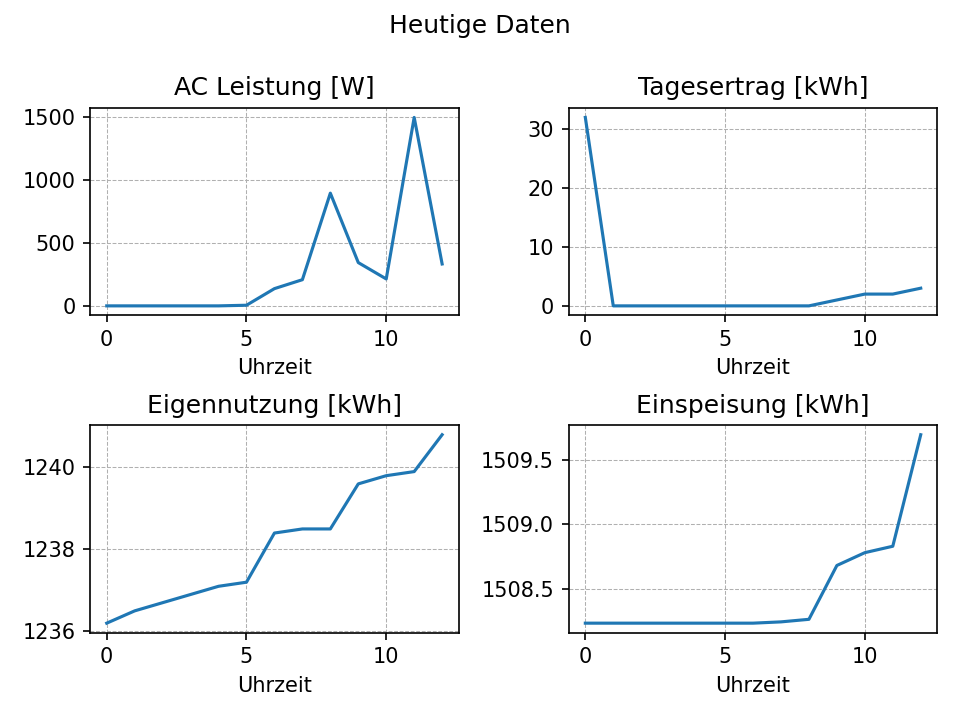
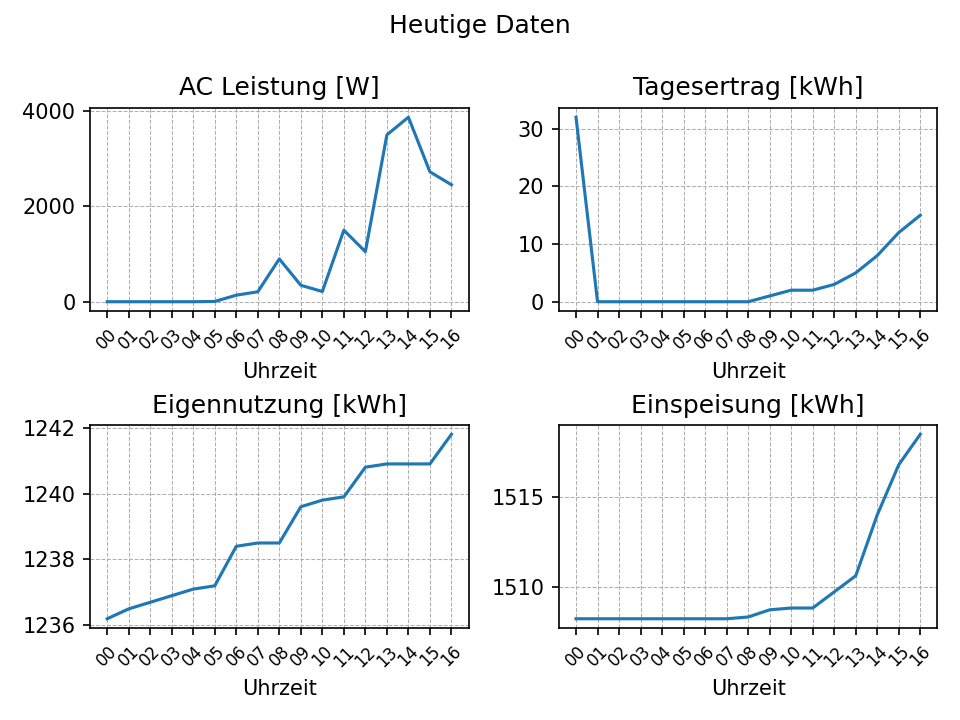
Stundenmarker hinzugefügt

diff --git a/plots/dailyplot.py b/plots/dailyplot.py
@@ -3,10 +3,11 @@ import sqlite3, pandas, matplotlib.pyplot as plt
 con = sqlite3.connect("/home/kiwi/project/solar_data.db")
 
 sql =   """select
+                substr(time(time_of_request, 'localtime'), 1, 2) as hour,
                 round(avg(acpower)) as ac,
                 round(yieldtoday) as yieldtoday,
                 round(consumeenergy, 1) as consume,
-                feedinenergy 
+                round(feedinenergy, 1) as feedin
             from
                 DOWNLOADED_SOLAX_INFO
             where
@@ -14,39 +15,42 @@ sql =   """select
             group by
                 substr(time(time_of_request, 'localtime'), 1, 2);
              """
+
 data = pandas.read_sql(sql, con)
 
 # AC Power
 plt.subplot(2, 2, 1)
-plt.plot(data.ac, label = "AC Power")
+plt.plot(data.hour, data.ac)
 plt.title("AC Leistung [W]")
+plt.xticks(fontsize=8, rotation=45)
 plt.xlabel("Uhrzeit")
 plt.grid(linestyle = '--', linewidth = 0.5)
 
 # Yield Today
 plt.subplot(2, 2, 2)
-plt.plot(data.yieldtoday, label = "Yield Today")
+plt.plot(data.hour, data.yieldtoday)
+plt.xticks(fontsize=8, rotation=45)
 plt.title("Tagesertrag [kWh]")
 plt.xlabel("Uhrzeit")
 plt.grid(linestyle = '--', linewidth = 0.5)
 
 # Consume Energy
 plt.subplot(2, 2, 3)
-plt.plot(data.consume, label = "Consume Energy")
+plt.plot(data.hour, data.consume)
+plt.xticks(fontsize=8, rotation=45)
 plt.title("Eigennutzung [kWh]")
 plt.xlabel("Uhrzeit")
 plt.grid(linestyle = '--', linewidth = 0.5)
 
 # Battery Power
 plt.subplot(2, 2, 4)
-plt.plot(data.feedinenergy, label = "Feedin Energy")
+plt.plot(data.hour, data.feedin)
+plt.xticks(fontsize=8, rotation=45)
 plt.title("Einspeisung [kWh]")
 plt.xlabel("Uhrzeit")
 plt.grid(linestyle = '--', linewidth = 0.5)
 
-x_tick_labels = ['0 uhr', '1 Uhr', '2 Uhr', '3 Uhr', '4 Uhr', '5 Uhr', '6 Uhr', '7 Uhr', '8 Uhr', '9 Uhr', '10 Uhr', '11 Uhr', '12 Uhr', '13 Uhr', '14 Uhr', '15 Uhr', '16 Uhr', '17 Uhr', '18 Uhr', '19 Uhr', '20 Uhr', '21 Uhr', '22 Uhr', '23 Uhr']
 plt.tight_layout()
-#plt.set_xticklabels(x_tick_labels)
 plt.suptitle("Heutige Daten")
 plt.subplots_adjust(top=0.85)
 plt.savefig('/home/kiwi/project/plots/daily0.png', dpi=150)
